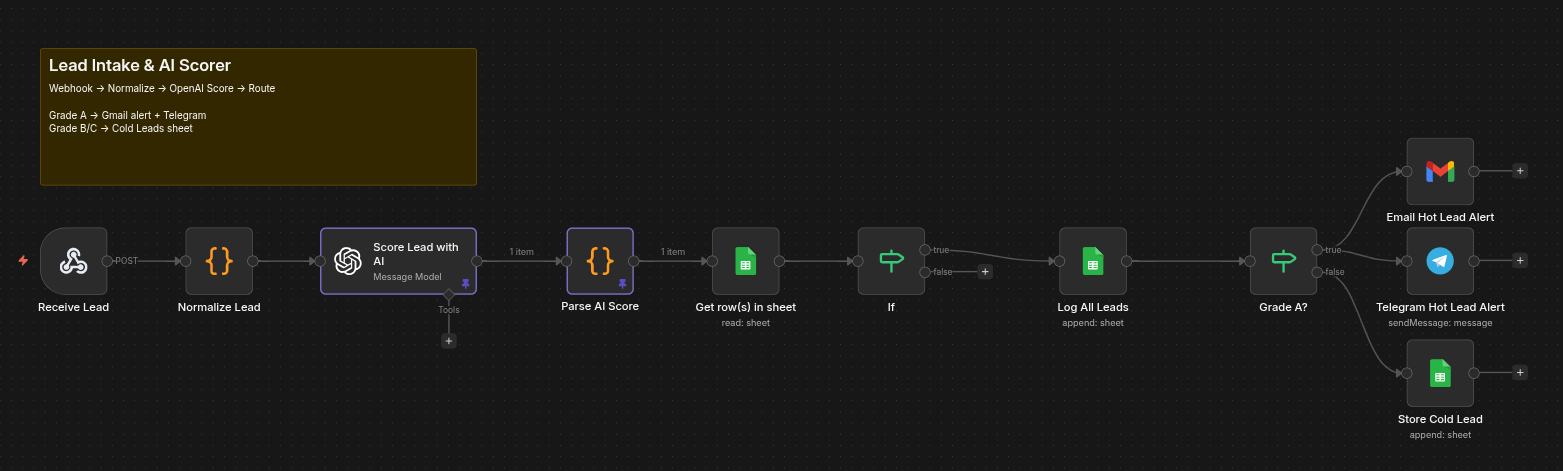
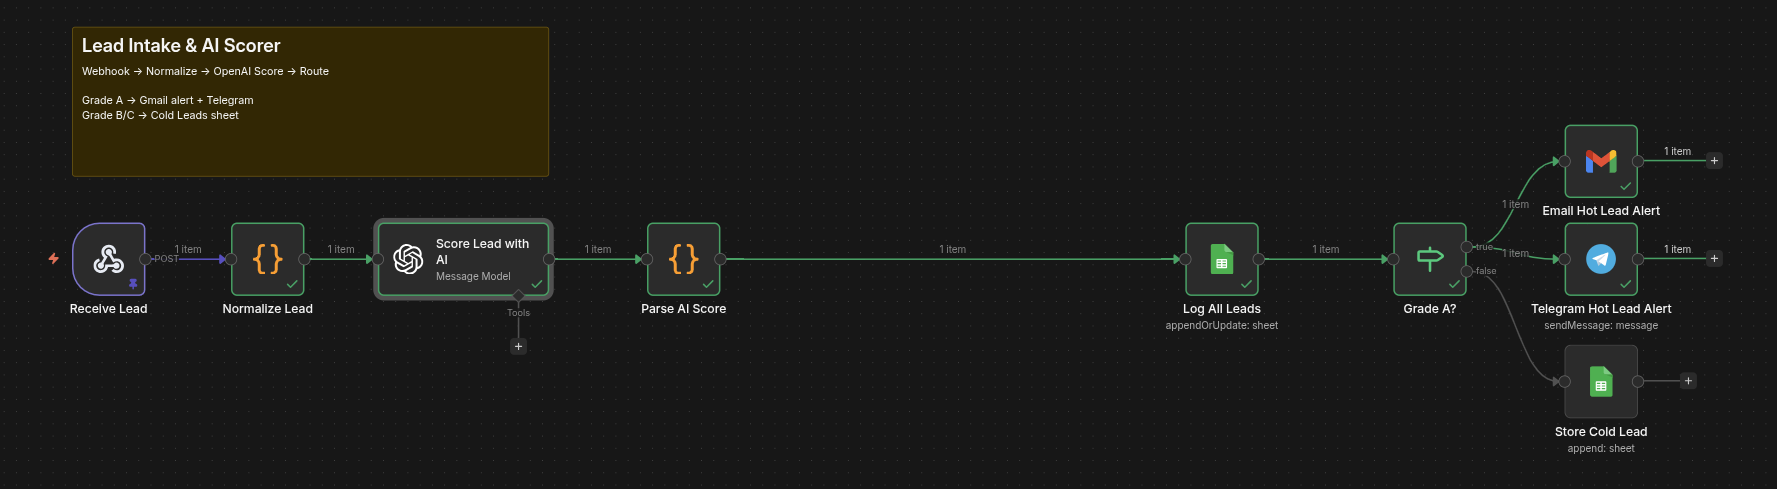
Add lead dedup; fix contact link, add outcome and storage notes
- lead-intake: deduplicate leads by email (Log All Leads -> appendOrUpdate),
  removing the fragile lookup/If pattern; update workflow screenshot
- lead-intake: add outcome framing, model- and storage-swappable notes
- Fix LinkedIn URL across all three READMEs

diff --git a/lead-intake/README.md b/lead-intake/README.md
@@ -7,7 +7,12 @@
 ![Telegram](https://img.shields.io/badge/Telegram-notifications-26A5E4?logo=telegram)
 ![Docker](https://img.shields.io/badge/Docker-self--hosted-2496ED?logo=docker)
 
-Automated lead capture pipeline built with n8n and OpenAI. Receives leads from a web form, scores them with GPT-4o-mini (grade A/B/C), routes hot leads to Gmail + Telegram instantly, stores cold leads in Google Sheets, and sends a daily HTML digest at 6pm.
+Automated lead capture pipeline built with n8n and OpenAI. Receives leads from a web form, scores them with GPT-4o-mini (grade A/B/C), routes hot leads to Gmail + Telegram instantly, logs every lead to Google Sheets (deduplicated by email — a repeat submission updates the existing row instead of adding a duplicate), and sends a daily HTML digest at 6pm.
+
+> **Why it matters:** hot leads reach a human the moment they arrive — cutting time-to-response
+> from hours to seconds, when a prospect is most likely to convert. The scoring model
+> (GPT-4o-mini) is swappable for any provider n8n supports (Anthropic/Groq/Gemini/Ollama) via
+> its chat-model nodes, so it fits whatever stack or budget a client runs on.
 
 ## Workflows
 
@@ -39,7 +44,7 @@ Webhook -> Normalize -> OpenAI Score
                     │                │
                     └───────┬────────┘
                             │
-                      Log -> All Leads sheet
+                      Log -> All Leads sheet (upsert on Email — one row per lead)
 
 [6pm daily]
 Schedule -> Read All Leads -> Build HTML -> Send Digest
@@ -96,6 +101,11 @@ Timestamp | Name | Email | Company | Source | Message | Grade | Reason
 
 Copy the Sheet ID from the URL:
 `https://docs.google.com/spreadsheets/d/THIS_PART_HERE/edit`
+
+> **Storage is swappable.** Google Sheets keeps the demo zero-infra and lets a client read and
+> edit leads directly. For higher volume or production use, swap the Sheets nodes for n8n's
+> **Postgres / Supabase** nodes — the rest of the pipeline (scoring, routing, alerts) is
+> unchanged.
 
 ### 2. Import workflows
 
@@ -192,13 +202,11 @@ A styled contact form is included in `form/index.html`. Deploy free on GitHub Pa
 - **Scoring is prompt-based, not a trained model** — grades come from GPT-4o-mini following a
   system prompt, so quality depends on the prompt and the lead's message; there's no
   historical-conversion learning.
-- **No deduplication** — the same lead submitting twice creates two rows; there's no
-  matching against existing leads.
 - **Single timezone for the digest** — the 6pm summary fires at one fixed time for everyone.
 
 ## Contact
 
 Built by Konstantinos Arvanitis — AI engineer & automation specialist.
 
-- [LinkedIn](https://www.linkedin.com/in/karvanitis)
+- [LinkedIn](https://www.linkedin.com/in/konstantinos-arvanitis-0248b3246/)
 - [GitHub](https://github.com/karvanitis)

diff --git a/ai-weekly-digest/README.md b/ai-weekly-digest/README.md
@@ -173,5 +173,5 @@ deals), or an **in-house marketing team** (MQLs, pipeline influenced, campaign s
 
 Built by Konstantinos Arvanitis — AI engineer & automation specialist.
 
-- [LinkedIn](https://www.linkedin.com/in/karvanitis)
+- [LinkedIn](https://www.linkedin.com/in/konstantinos-arvanitis-0248b3246/)
 - [GitHub](https://github.com/karvanitis)

diff --git a/crm-automation/README.md b/crm-automation/README.md
@@ -226,5 +226,5 @@ Turn on both workflows in n8n (toggle top right), open `form/index.html` in a br
 
 Built by Konstantinos Arvanitis - AI engineer & automation specialist.
 
-- [LinkedIn](https://www.linkedin.com/in/karvanitis)
+- [LinkedIn](https://www.linkedin.com/in/konstantinos-arvanitis-0248b3246/)
 - [GitHub](https://github.com/karvanitis)
